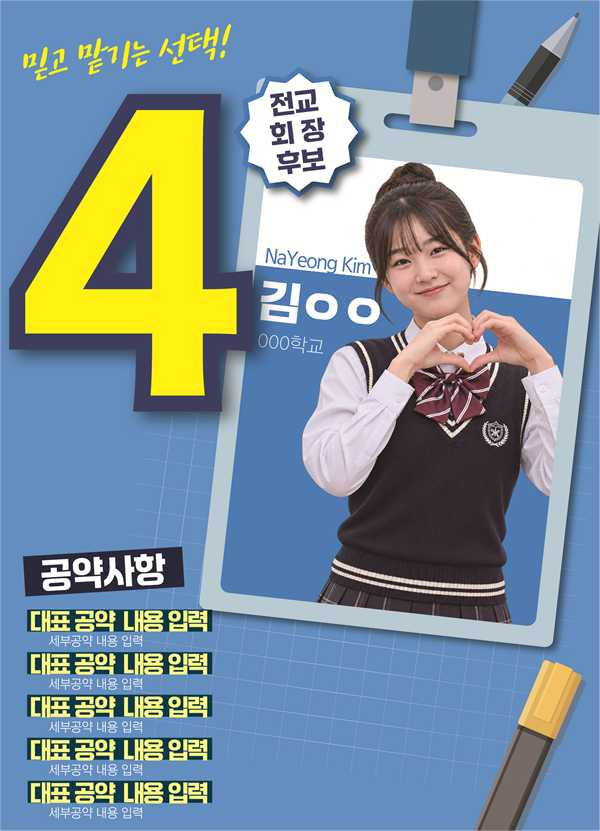
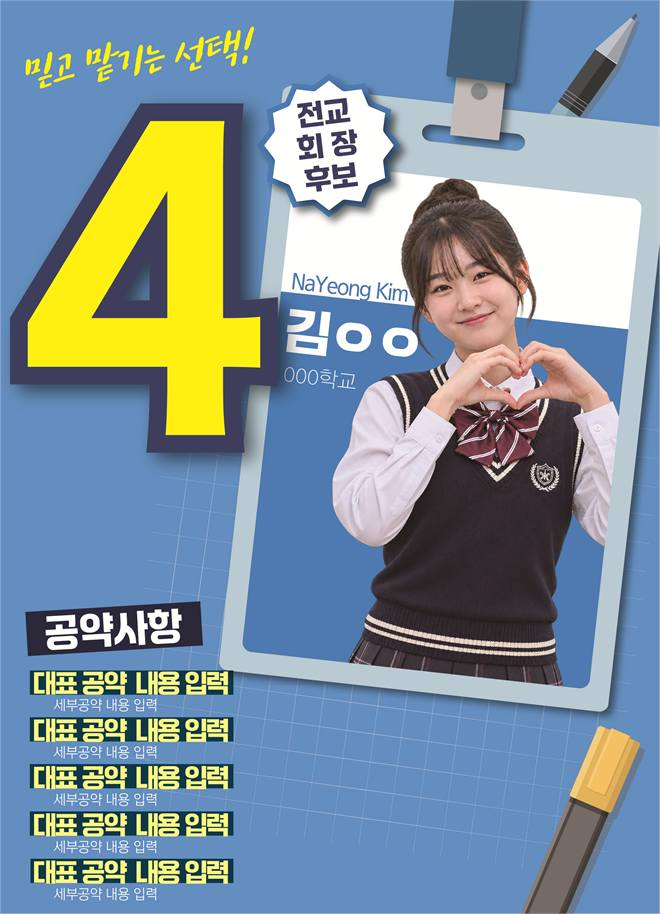
fix(election): 시안 미리보기 화질을 조금 올리고 안내를 주황 박스로 정리

diff --git a/components/service-detail/DraftShowcaseSection.tsx b/components/service-detail/DraftShowcaseSection.tsx
@@ -56,17 +56,21 @@ export default function DraftShowcaseSection({
       <div className="mx-auto max-w-4xl">
         <h2 className="section-title">{heading}</h2>
         {showClientDesignsCta ? (
-          <div className="mt-2 max-w-2xl space-y-2.5 text-left text-pretty">
-            <p className="text-[15px] leading-relaxed text-gray-600 sm:text-base">
+          <div className="mt-2 space-y-3 text-left text-pretty">
+            <p className="max-w-2xl text-[15px] leading-relaxed text-gray-600 sm:text-base">
               포스터·피켓·용품 등{' '}
               <strong className="font-semibold text-gray-700">공개 시안 방향</strong>을 참고하실 수
               있습니다.
             </p>
-            <div className="rounded-2xl border-2 border-primary bg-primary-light px-4 py-3.5 shadow-sm sm:px-5 sm:py-4">
-              <p className="text-base font-extrabold leading-snug text-gray-900 sm:text-lg">
+            <div className="w-full rounded-2xl bg-primary px-4 py-4 text-white shadow-sm sm:px-6 sm:py-5">
+              <p className="text-base font-extrabold leading-snug sm:text-lg">
                 모든 시안은 색상, 문구 수정이 가능합니다.
               </p>
-              <p className="mt-1.5 text-base font-extrabold leading-snug text-primary sm:text-lg">
+              <p className="mt-2 text-sm font-bold leading-relaxed sm:text-base">
+                화면의 시안은 미리보기용으로 화질을 낮춰 두었습니다. 실제 작업은 요청에 맞춰
+                고화질로 수정해 드립니다.
+              </p>
+              <p className="mt-2 text-base font-extrabold leading-snug sm:text-lg">
                 자세한 문의는 카톡 또는 전화로 문의 주세요!
               </p>
             </div>

diff --git a/components/service-detail/PortfolioItemsCarousel.tsx b/components/service-detail/PortfolioItemsCarousel.tsx
@@ -50,7 +50,7 @@ function PortfolioCard({
                 : 'object-cover object-center'
             }
             sizes={sizes}
-            quality={poster ? 45 : 78}
+            quality={poster ? 72 : 78}
           />
         ) : (
           <div className="flex h-full w-full items-center justify-center px-2 text-center text-sm leading-snug text-gray-400">
@@ -99,7 +99,7 @@ export default function PortfolioItemsCarousel({
               <div key={`${groupKey}-swipe-${i}`} className={slideClass}>
                 <PortfolioCard
                   item={item}
-                  sizes={poster ? '220px' : '(max-width: 640px) 92vw, 400px'}
+                  sizes={poster ? '(max-width: 640px) 78vw, 320px' : '(max-width: 640px) 92vw, 400px'}
                   slotPlaceholder={slotPlaceholder}
                   frame={frame}
                 />
